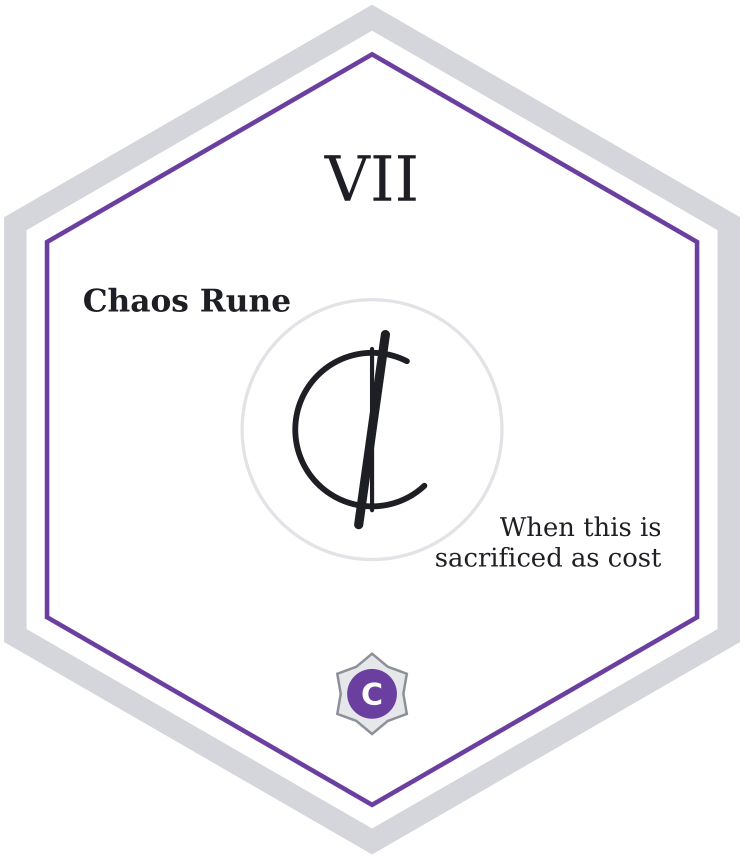
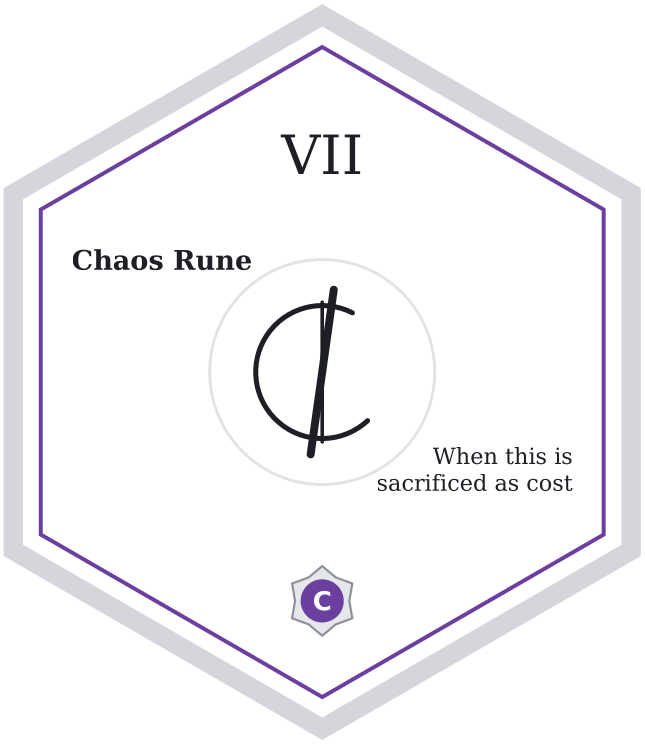
Tokens resized into the proper size

diff --git a/style.css b/style.css
@@ -164,7 +164,7 @@ dialog::backdrop { background: rgba(0,0,0,.55); }
   #print-list td.q { width: 12mm; text-align: right; font-weight: 700; }
   .proxy-sheet { display: flex; flex-wrap: wrap; gap: 0; page-break-after: always; }
   .proxy-sheet img.card { width: 63mm; height: 88mm; }
-  .proxy-sheet img.tok { width: 63mm; height: 72.75mm; }
+  .proxy-sheet img.tok { width: 54.56mm; height: 63mm; }   /* pointy-top hexagon, 63 mm point to point */
   .proxy-sheet img.ins { width: 88mm; height: 43mm; }
 }
 

diff --git a/sim.html b/sim.html
@@ -5,7 +5,7 @@
 <meta name="viewport" content="width=device-width, initial-scale=1">
 <title>RoVA Playtest</title>
 <script>try{var t=localStorage.getItem("rova-theme");if(t==="light"||t==="dark")document.documentElement.dataset.theme=t;}catch(e){}</script>
-<link rel="stylesheet" href="style.css?v=11">
+<link rel="stylesheet" href="style.css?v=12">
 <link rel="stylesheet" href="sim.css?v=12">
 </head>
 <body class="sim">

diff --git a/index.html b/index.html
@@ -5,7 +5,7 @@
 <meta name="viewport" content="width=device-width, initial-scale=1">
 <title>RoVA Deck Builder</title>
 <script>try{var t=localStorage.getItem("rova-theme");if(t==="light"||t==="dark")document.documentElement.dataset.theme=t;}catch(e){}</script>
-<link rel="stylesheet" href="style.css?v=11">
+<link rel="stylesheet" href="style.css?v=12">
 </head>
 <body>
 <header class="topbar three">
